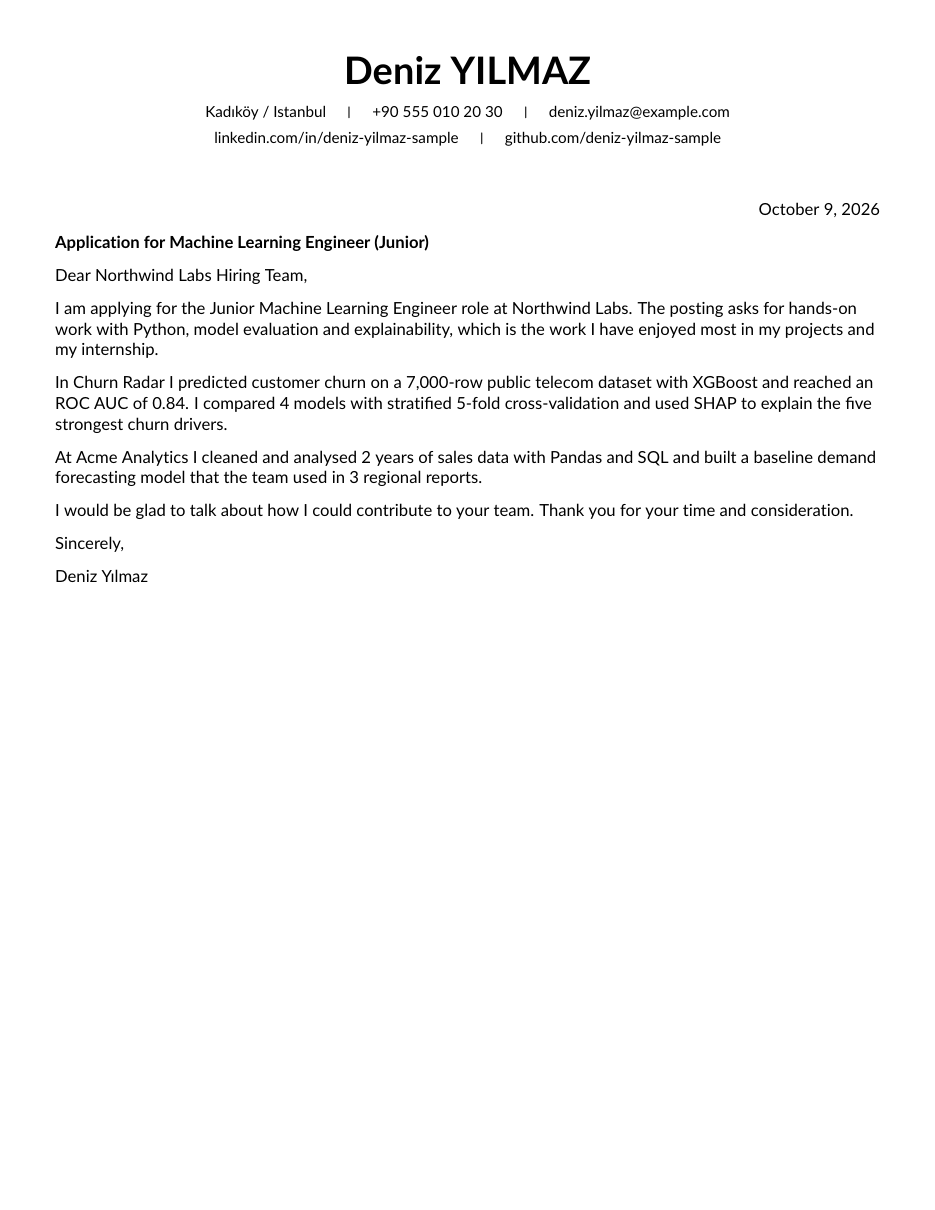
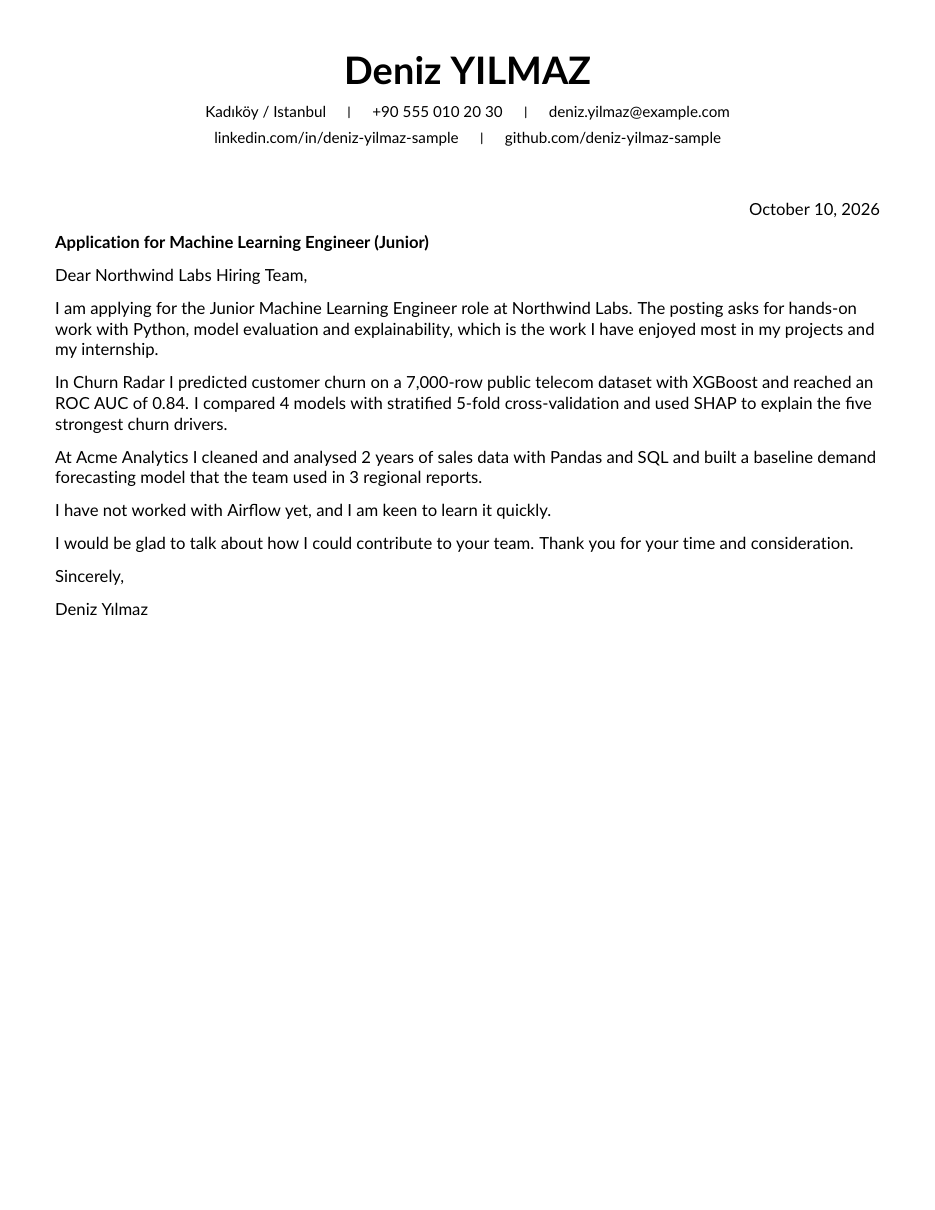
README: cover letter guard and "keen to learn" sentence, must-have warnings
Regenerate the sample cover letter image: the fixture gained a learning item
(Airflow) after 1.0.0, so the old image no longer matched what the tool writes.
Also rewrap the cost paragraph.

Changed region(s): [[0.062, 0.3975, 0.8995, 0.5198], [0.8064, 0.1529, 0.8995, 0.1835]]

diff --git a/README.md b/README.md
@@ -58,8 +58,17 @@ flowchart LR
    against the cited sources. One repair round, then the run fails with the list.
 4. **Render and fit.** Python escapes the text into your own LaTeX macros; pdfLaTeX
    compiles both languages, which are fitted to one page together.
-5. **Check and publish.** One page each, a clean ATS text layer, keyword coverage; then
-   the PDFs, the report and a log row are committed to your data repo.
+5. **Check and publish.** One page each, a clean ATS text layer, and keyword coverage with
+   your real gaps listed. A must-have you have evidence for but the page left out gets a
+   warning naming the form your inventory backs (CI/CD, say, when the posting asks for
+   Jenkins and you have only CI/CD). Then the PDFs, the report and a log row are committed
+   to your data repo.
+
+**Cover letter (optional).** Written after the resumes pass, from the same inventory and
+checked by its own fact guard with one repair round. A skill the posting asks for and you
+lack is never claimed: at most three such gaps are named in one sentence that code writes,
+"I have not worked with X yet, and I am keen to learn it quickly." A letter that still
+fails is skipped with a notice; the resumes are always delivered.
 
 ## Set up in 10 minutes
 
@@ -187,12 +196,12 @@ credentials:
   free tier is a separate, rate-limited offer, and its data terms differ from paid use.
 
 A typical run costs about **$0.10–0.15** on `claude-sonnet-5-5`, so a `monthly_budget_usd`
-of 5 covers roughly 30–45 applications. A cover letter adds about $0.05, or $0.08 when it needs a
-repair round (one language saves about $0.01; the inventory it reads is most of the cost), and a regenerate
-costs one tailoring call, about $0.05–0.10. Before each run, a budget guard sums this
-month's spend in `usage.csv`. If the run would exceed the budget, it skips the Claude API
-and uses the next provider. When credits run out, the tool says so and falls back the
-same way.
+of 5 covers roughly 30–45 applications. A cover letter adds about $0.05, or $0.08 when it
+needs a repair round (one language saves about $0.01; the inventory it reads is most of
+the cost), and a regenerate costs one tailoring call, about $0.05–0.10. Before each run,
+a budget guard sums this month's spend in `usage.csv`. If the run would exceed the budget,
+it skips the Claude API and uses the next provider. When credits run out, the tool says so
+and falls back the same way.
 
 ### Setting up the Claude API
 
